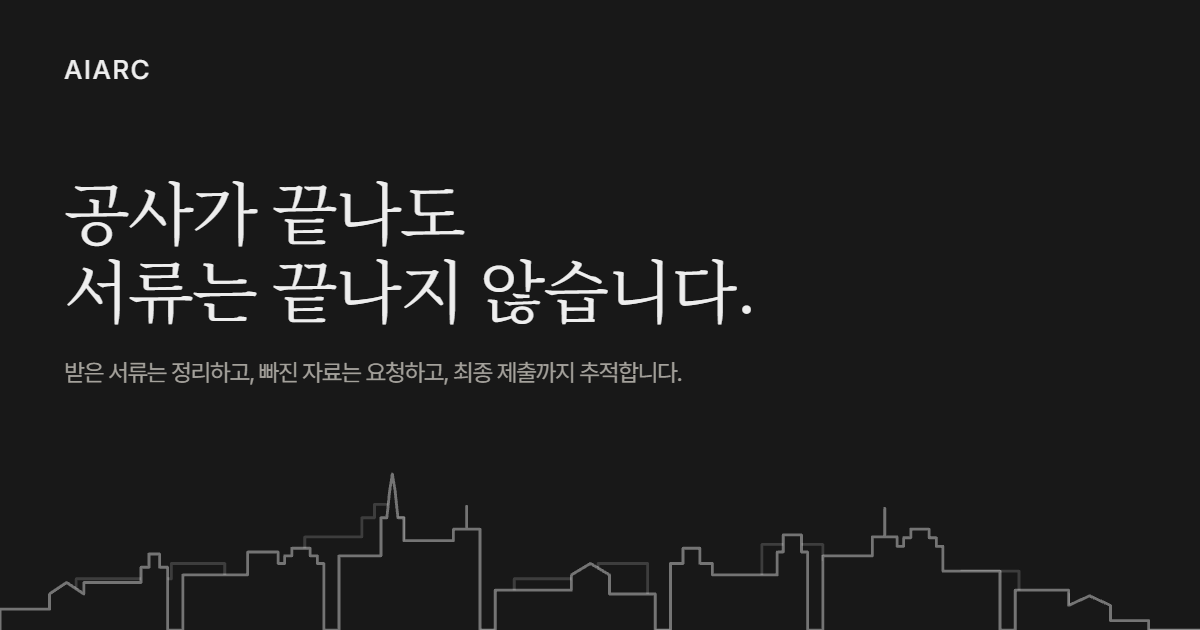
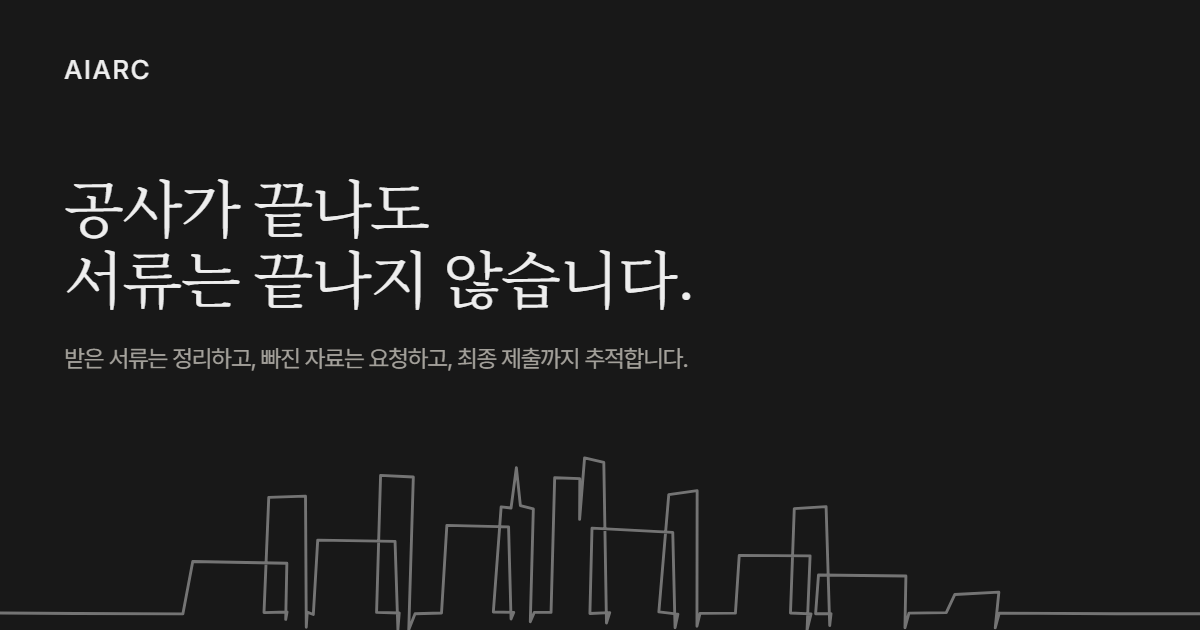
feat: redraw the skyline as a continuous one-line drawing
Replaces the architectural elevation with the single-stroke style from the
reference. Different enough that the generator was rewritten rather than
tuned: that version lifted the pen between blocks and was checked for
monotonic x, which this style has to violate.

  - one unbroken stroke, no fill, no second depth plane
  - buildings overlap in x, so the line runs through earlier roofs and
    descenders. That is where the crossings come from
  - each building's right edge stabs below the ground line before the pen
    returns to it
  - a seeded wobble leans the verticals slightly, so it reads as drawn
    rather than plotted; the seed keeps the committed path stable

The self-intersection check earned its place. It started as a count of
backtracks in x, which passed while the drawing had zero real crossings --
the descenders made a V that touched the ground line without ever crossing
it. Counting proper segment intersections showed 0 and forced the overlap
fix that the style actually needs.

Hero headline down another step to 58 / 48 / 38, and the card headline with
it. The card's skyline also sits 17px higher so its descenders are not
cropped by the bottom edge.

diff --git a/tools/skyline.js b/tools/skyline.js
@@ -1,173 +1,145 @@
-// Generates the hero skyline path(s).
+// Generates the hero skyline: a continuous one-line drawing.
 //
-// Same viewBox / baseline / y-range as Altitude's mountain ridge (0 0 630 360, base
-// y=177, apex y=95) so the graphic lands in the identical screen position at every
-// width. Straight segments only: the ridge's C-curves become elevation lines.
+// Same viewBox / baseline / y-band as Altitude's mountain ridge (0 0 630 360, base
+// y=177, apex y~95) so the graphic keeps its screen position at every width.
 //
-// Two things drive the composition:
+// The earlier version was a clean architectural elevation, drawn strictly left to
+// right with the pen lifting between blocks. This is the opposite: ONE stroke that
+// never lifts. Each building is traced up the left edge, across the roof, then down
+// past the ground line before coming back up to continue, so the line crosses
+// itself at every building. Those crossings, plus a small seeded wobble, are what
+// make it read as drawn by hand rather than plotted.
 //
-// 1. Real skylines are power-law, not a comb. Seoul is one 555m tower against a
-//    245-333m cluster and a long low-rise tail. Mapping that ratio onto the ridge
-//    band (82 units) gives one dominant tower, two secondaries, a mid group, and a
-//    lot of low mass -- the height hierarchy the first version was missing.
-// 2. Width has to vary as much as height. Narrow spires next to wide slabs are what
-//    stop it reading as a row of same-size boxes.
-//
-// Roof heights are fitted to the ridge's own y-values across x (177 at both edges,
-// ~148 by x=60, peak near x=180, dip near x=290, secondary rise near x=470), so the
-// skyline reads as the same silhouette rebuilt out of buildings.
-//
-// The ridge never returns to a baseline mid-span, so neither does this: buildings
-// share party walls inside a block, and only a few streets drop to the ground.
+// Two consequences of the style, both deliberate:
+//   - x is NOT monotonic any more. The pen doubles back; that is the whole point.
+//   - there is no fill and no second depth plane. A one-line drawing is just a line.
 
 const BASE = 177;
 const APEX = 95;
+const OVERSHOOT_MAX = 12; // how far below the ground line a descender may stab
+
+// deterministic wobble, so the committed path is stable across runs
+let seed = 20260905;
+function rnd() {
+  seed = (seed * 1664525 + 1013904223) % 4294967296;
+  return seed / 4294967296;
+}
+const jit = (a) => (rnd() - 0.5) * 2 * a;
+
 const r = (n) => Math.round(n * 10) / 10;
+const pts = [];
+const to = (x, y) => pts.push([x, y]);
 
-function buildPath(blocks) {
-  const p = [];
-  const to = (x, y) => p.push(`L ${r(x)},${r(y)}`);
+// --- composition -------------------------------------------------------------
+// Follows the reference: long flat ground on the left, a rising mid-rise group,
+// the tall cluster a little past centre with a spire, then a descending tail and
+// flat ground again on the right.
+//
+// [x, width, roofY, kind]
+//   block - plain building
+//   spire - carries a thin mast
+//   twin  - two narrow towers in one gesture, dipping between without reaching ground
+const plan = [
+  [100, 50, 150, 'block'],
+  [142, 18, 116, 'block'],
+  [168, 40, 138, 'block'],
+  [200, 16, 105, 'block'],
+  [236, 32, 131, 'block'],
+  [262, 18, 121, 'spire'],
+  [292, 26, 106, 'twin'],
+  [312, 42, 134, 'block'],
+  [350, 15, 114, 'block'],
+  [388, 36, 146, 'block'],
+  [418, 16, 122, 'block'],
+  [430, 46, 156, 'block'],
+  [500, 24, 167, 'block'],
+];
 
-  // Pen enters at (x, y) on the left of the roof, leaves at (x + w, y).
-  const roofs = {
-    flat: (x, w, y) => to(x + w, y),
+to(0, BASE + jit(0.6));
+to(40, BASE + jit(0.8));
 
-    // thin mast on a flat roof
-    mast: (x, w, y, h = 16) => {
-      const c = x + w * 0.5;
-      to(c, y); to(c, y - h); to(c, y); to(x + w, y);
-    },
+for (const [x, w, top, kind] of plan) {
+  to(x - 3 + jit(1.2), BASE + jit(0.8));        // approach along the ground
+  to(x + jit(1.4), top + jit(1.6));             // up the left edge, slightly off-vertical
 
-    // pitched roof, low-rise only
-    gable: (x, w, y, rise = 7) => {
-      to(x + w * 0.5, y - rise); to(x + w, y);
-    },
-
-    // raised parapet
-    crown: (x, w, y, h = 9) => {
-      to(x + w * 0.3, y); to(x + w * 0.3, y - h); to(x + w * 0.7, y - h);
-      to(x + w * 0.7, y); to(x + w, y);
-    },
-
-    // art-deco setback
-    setback: (x, w, y, d = 12) => {
-      to(x + w * 0.2, y); to(x + w * 0.2, y - d); to(x + w * 0.8, y - d);
-      to(x + w * 0.8, y); to(x + w, y);
-    },
-
-    // tapered shaft rising to a spire — the dominant tower's crown
-    taper: (x, w, y, h = 26) => {
-      const c = x + w * 0.5;
-      to(x + w * 0.26, y); to(x + w * 0.38, y - h * 0.62);
-      to(c, y - h); to(x + w * 0.62, y - h * 0.62);
-      to(x + w * 0.74, y); to(x + w, y);
-    },
-
-    // stepped crown, two shoulders
-    stepped: (x, w, y, d = 10) => {
-      to(x + w * 0.14, y); to(x + w * 0.14, y - d * 0.5);
-      to(x + w * 0.3, y - d * 0.5); to(x + w * 0.3, y - d);
-      to(x + w * 0.7, y - d); to(x + w * 0.7, y - d * 0.5);
-      to(x + w * 0.86, y - d * 0.5); to(x + w * 0.86, y); to(x + w, y);
-    },
-  };
-
-  p.push(`M 0,${BASE}`);
-  let cursor = 0;
-  for (const block of blocks) {
-    if (block.x > cursor) to(block.x, BASE); // street
-    let x = block.x;
-    for (const [w, y, kind, arg] of block.buildings) {
-      to(x, y);                              // party wall
-      roofs[kind](x, w, y, arg);
-      x += w;
-    }
-    to(x, BASE);
-    cursor = x;
+  if (kind === 'twin') {
+    const mid = x + w * 0.45;
+    to(mid + jit(1.2), top + jit(1.5));
+    to(mid + jit(1.4), top + 22 + jit(2));      // dip between the towers
+    to(mid + 3 + jit(1.2), top - 9 + jit(2));   // back up, taller
+    to(x + w + jit(1.4), top - 7 + jit(1.8));
+  } else if (kind === 'spire') {
+    const c = x + w * 0.5;
+    to(c - 2 + jit(0.8), top + jit(1.2));
+    to(c + jit(0.7), top - 21 + jit(1.5));      // the mast
+    to(c + 2 + jit(0.8), top + jit(1.2));
+    to(x + w + jit(1.4), top + jit(1.6));
+  } else {
+    to(x + w + jit(1.4), top + jit(1.6));       // across the roof
   }
-  to(630, BASE);
-  return p.filter((seg, i) => seg !== p[i - 1]).join(' ');
+
+  // down the right edge and PAST the ground, then back up: this is the crossing
+  to(x + w + jit(1.6), BASE + 3 + rnd() * 6);
+  to(x + w + 2 + jit(1.5), BASE + jit(0.7));
 }
 
-// --- foreground ---------------------------------------------------------------
-// Macro silhouette echoes the ridge: low left shoulder, dominant tower near x=180,
-// a dip around x=300, a secondary rise near x=470, tapering right.
-const front = [
-  { x: 0,   buildings: [[26, 166, 'flat'], [18, 158, 'gable', 6], [30, 152, 'flat'], [14, 144, 'crown', 7]] },
-  { x: 96,  buildings: [[34, 148, 'flat'], [16, 136, 'flat'], [24, 142, 'stepped', 8]] },
-  { x: 178, buildings: [[22, 138, 'flat'], [12, 118, 'taper', 23], [26, 130, 'flat'], [14, 124, 'mast', 12]] },
-  { x: 260, buildings: [[40, 156, 'flat'], [20, 148, 'gable', 6], [24, 158, 'flat']] },
-  { x: 352, buildings: [[22, 142, 'crown', 8], [34, 148, 'flat'], [16, 136, 'setback', 9]] },
-  { x: 432, buildings: [[26, 138, 'flat'], [13, 128, 'mast', 15], [24, 133, 'stepped', 9], [30, 146, 'flat']] },
-  { x: 533, buildings: [[28, 156, 'flat'], [22, 164, 'gable', 5], [20, 172, 'flat']] },
-];
+to(586, BASE + jit(0.8));
+to(630, BASE + jit(0.6));
 
-// --- background ---------------------------------------------------------------
-// A second, much fainter plane. Sparse and simple on purpose: it reads as depth,
-// not as more detail. Sits behind and slightly higher so it peeks between the
-// front masses rather than competing with them.
-const back = [
-  { x: 40,  buildings: [[50, 150, 'flat'], [28, 142, 'flat']] },
-  { x: 160, buildings: [[30, 128, 'flat'], [22, 118, 'crown', 7]] },
-  { x: 270, buildings: [[44, 150, 'flat'], [26, 142, 'flat']] },
-  { x: 400, buildings: [[32, 132, 'flat'], [38, 140, 'flat']] },
-  { x: 505, buildings: [[30, 146, 'flat'], [26, 158, 'flat']] },
-];
-
-const paths = { front: buildPath(front), back: buildPath(back) };
+const d = 'M ' + pts.map(([x, y]) => `${r(x)},${r(y)}`).join(' L ');
 
 // --- checks -------------------------------------------------------------------
 if (process.argv[2] === '--check') {
   let bad = 0;
   const report = (pass, msg) => { console.log((pass ? 'ok   ' : 'FAIL ') + msg); if (!pass) bad++; };
 
-  for (const [name, d] of Object.entries(paths)) {
-    const pts = [...d.matchAll(/[ML] (-?[\d.]+),(-?[\d.]+)/g)].map((m) => [+m[1], +m[2]]);
-    const xs = pts.map((q) => q[0]);
-    const ys = pts.map((q) => q[1]);
-    // drawn left-to-right, so x must never double back or the stroke overdraws itself
-    const backtrack = xs.findIndex((x, i) => i && x < xs[i - 1] - 1e-9);
-    const top = Math.min(...ys);
-    report(top >= APEX - 1 && top <= (name === 'front' ? 100 : 130),
-      `${name}: apex ${top} inside its band`);
-    report(Math.max(...ys) === BASE, `${name}: baseline ${Math.max(...ys)} === ${BASE}`);
-    report(xs[0] === 0 && xs[xs.length - 1] === 630, `${name}: spans 0..630`);
-    report(backtrack === -1, `${name}: x monotonic (first backtrack ${backtrack})`);
-    report(!/NaN|undefined/.test(d), `${name}: no NaN`);
-  }
+  const xs = pts.map((p) => p[0]);
+  const ys = pts.map((p) => p[1]);
+  const top = Math.min(...ys);
+  const bottom = Math.max(...ys);
 
-  // the front plane must actually have hierarchy, not be a comb: the tallest
-  // building should stand well clear of the median roof height
-  const roofs = front.flatMap((b) => b.buildings.map(([, y]) => y)).sort((a, b) => a - b);
-  const tallest = roofs[0];
-  const median = roofs[Math.floor(roofs.length / 2)];
-  report(median - tallest >= 25, `front: hierarchy, median roof ${median} vs tallest ${tallest}`);
+  report((d.match(/M/g) || []).length === 1, 'a single unbroken stroke (one M command)');
+  report(top >= APEX - 4 && top <= 100, `apex ${r(top)} inside the ridge band`);
+  report(bottom <= BASE + OVERSHOOT_MAX, `deepest descender ${r(bottom)} <= ${BASE + OVERSHOOT_MAX}`);
+  report(xs[0] === 0 && xs[xs.length - 1] === 630, 'spans the full 0..630 viewBox');
+  report(Math.abs(ys[0] - BASE) < 2 && Math.abs(ys[ys.length - 1] - BASE) < 2,
+    'both ends sit on the ground line');
 
-  const widths = front.flatMap((b) => b.buildings.map(([w]) => w));
-  report(Math.max(...widths) / Math.min(...widths) >= 3,
-    `front: width variance ${Math.min(...widths)}..${Math.max(...widths)} (>=3x)`);
+  // The defining property of this style is that the stroke crosses ITSELF. Counting
+  // backtracks in x was only a proxy and stopped tracking once the gaps widened, so
+  // measure the real thing: proper intersections between non-adjacent segments.
+  const seg = pts.slice(0, -1).map((p, i) => [p, pts[i + 1]]);
+  const cross = (a, b, c, dd) => {
+    const o = (p, q, s) => Math.sign((q[0] - p[0]) * (s[1] - p[1]) - (q[1] - p[1]) * (s[0] - p[0]));
+    return o(a, b, c) !== o(a, b, dd) && o(c, dd, a) !== o(c, dd, b);
+  };
+  let hits = 0;
+  for (let i = 0; i < seg.length; i++)
+    for (let j = i + 2; j < seg.length; j++)
+      if (cross(seg[i][0], seg[i][1], seg[j][0], seg[j][1])) hits++;
+  report(hits >= plan.length, `${hits} self-intersections (>= ${plan.length}, one per building)`);
 
+  const dips = ys.filter((y) => y > BASE + 3).length;
+  report(dips >= plan.length, `${dips} descenders cross the ground line`);
+
+  report(!/NaN|undefined/.test(d), 'no NaN in path');
   process.exit(bad ? 1 : 0);
 }
 
 if (process.argv[2] === '--sync') {
   const fs = require('fs');
   const path = require('path');
-  // the social card reuses the same silhouette, so it is synced from here too
   const targets = ['index.html', path.join('tools', 'og-card.html')];
   for (const rel of targets) {
     const file = path.join(__dirname, '..', rel);
     if (!fs.existsSync(file)) continue;
-    let html = fs.readFileSync(file, 'utf8');
-    for (const [name, d] of Object.entries(paths)) {
-      const re = new RegExp(`(<path id="skyline-${name}" d=")[^"]*(")`);
-      if (!re.test(html)) { console.error(`skyline-${name} not found in ${rel}`); process.exit(1); }
-      html = html.replace(re, (m, a, b) => a + d + b);
-    }
-    fs.writeFileSync(file, html);
+    const html = fs.readFileSync(file, 'utf8');
+    const re = /(<path id="skyline-line" d=")[^"]*(")/;
+    if (!re.test(html)) { console.error(`skyline-line not found in ${rel}`); process.exit(1); }
+    fs.writeFileSync(file, html.replace(re, (m, a, b) => a + d + b));
     console.log(`synced ${rel}`);
   }
   process.exit(0);
 }
 
-console.log(JSON.stringify(paths, null, 1));
+console.log(d);

diff --git a/index.html b/index.html
@@ -199,7 +199,7 @@ main{padding-top:var(--header-h)}
 
 .hero h1{
   font-family:var(--font-serif);font-weight:400;
-  font-size:42px;line-height:1.15;letter-spacing:-.025em;
+  font-size:38px;line-height:1.15;letter-spacing:-.025em;
   color:var(--foreground);
   /* Korean has no inter-syllable break opportunity worth taking — without this the
      browser splits 않습니다 across lines at narrow widths */
@@ -219,9 +219,6 @@ main{padding-top:var(--header-h)}
 .skyline{position:absolute;top:30%;left:0;right:0;width:100%;pointer-events:none}
 .skyline-clip{width:100%;overflow:hidden}
 .skyline svg{display:block;width:100%;min-width:900px;height:auto}
-/* filled with the canvas colour so the front plane hides the depth layer
-   behind it; visually still pure linework, no visible fill */
-#skyline-front{fill:var(--background)}
 
 /* ── motion ───────────────────────────────────────────────────────────────── */
 @keyframes reveal{to{opacity:1;transform:translateY(0)}}
@@ -284,8 +281,8 @@ main{padding-top:var(--header-h)}
 }
 
 /* ── type scale: Altitude's text-5xl / sm:text-6xl / lg:text-7xl ──────────── */
-@media (min-width:640px){.hero h1{font-size:54px}}
-@media (min-width:1024px){.hero h1{font-size:64px}}
+@media (min-width:640px){.hero h1{font-size:48px}}
+@media (min-width:1024px){.hero h1{font-size:58px}}
 </style>
 </head>
 <body>
@@ -343,8 +340,7 @@ main{padding-top:var(--header-h)}
       <div class="skyline-clip">
         <!-- purely decorative: announcing it adds nothing for screen readers -->
         <svg xmlns="http://www.w3.org/2000/svg" viewBox="0 0 630 360" preserveAspectRatio="none" aria-hidden="true" focusable="false">
-          <path id="skyline-back" d="M 0,177 L 40,177 L 40,150 L 90,150 L 90,142 L 118,142 L 118,177 L 160,177 L 160,128 L 190,128 L 190,118 L 196.6,118 L 196.6,111 L 205.4,111 L 205.4,118 L 212,118 L 212,177 L 270,177 L 270,150 L 314,150 L 314,142 L 340,142 L 340,177 L 400,177 L 400,132 L 432,132 L 432,140 L 470,140 L 470,177 L 505,177 L 505,146 L 535,146 L 535,158 L 561,158 L 561,177 L 630,177" fill="none" stroke="white" stroke-width="1.5" stroke-linecap="round" stroke-linejoin="round" opacity="0.16"/>
-          <path id="skyline-front" d="M 0,177 L 0,166 L 26,166 L 26,158 L 35,152 L 44,158 L 44,152 L 74,152 L 74,144 L 78.2,144 L 78.2,137 L 83.8,137 L 83.8,144 L 88,144 L 88,177 L 96,177 L 96,148 L 130,148 L 130,136 L 146,136 L 146,142 L 149.4,142 L 149.4,138 L 153.2,138 L 153.2,134 L 162.8,134 L 162.8,138 L 166.6,138 L 166.6,142 L 170,142 L 170,177 L 178,177 L 178,138 L 200,138 L 200,118 L 203.1,118 L 204.6,103.7 L 206,95 L 207.4,103.7 L 208.9,118 L 212,118 L 212,130 L 238,130 L 238,124 L 245,124 L 245,112 L 245,124 L 252,124 L 252,177 L 260,177 L 260,156 L 300,156 L 300,148 L 310,142 L 320,148 L 320,158 L 344,158 L 344,177 L 352,177 L 352,142 L 358.6,142 L 358.6,134 L 367.4,134 L 367.4,142 L 374,142 L 374,148 L 408,148 L 408,136 L 411.2,136 L 411.2,127 L 420.8,127 L 420.8,136 L 424,136 L 424,177 L 432,177 L 432,138 L 458,138 L 458,128 L 464.5,128 L 464.5,113 L 464.5,128 L 471,128 L 471,133 L 474.4,133 L 474.4,128.5 L 478.2,128.5 L 478.2,124 L 487.8,124 L 487.8,128.5 L 491.6,128.5 L 491.6,133 L 495,133 L 495,146 L 525,146 L 525,177 L 533,177 L 533,156 L 561,156 L 561,164 L 572,159 L 583,164 L 583,172 L 603,172 L 603,177 L 630,177" stroke="white" stroke-width="1.5" stroke-linecap="round" stroke-linejoin="round" fill-opacity="1" stroke-opacity="0.4"/>
+          <path id="skyline-line" d="M 0,176.9 L 40,177.2 L 96,177.4 L 101.2,149.9 L 150.6,150.8 L 150,180.3 L 150.7,176.4 L 138.6,176.7 L 141.1,116.2 L 160.4,115.6 L 160.8,184.4 L 161.3,176.5 L 164.5,177.7 L 166.8,138.7 L 207.4,139.3 L 208.9,185.7 L 209.6,176.9 L 197.7,176.6 L 199.8,104.7 L 217,105.5 L 214.6,185.7 L 217.9,177.3 L 231.8,176.9 L 234.6,130.9 L 267,131.7 L 268.3,180.1 L 269.7,176.6 L 259,176.4 L 263.1,121.2 L 268.3,121.8 L 271.1,100.6 L 273.2,120.6 L 280,122.3 L 278.4,181.5 L 280.5,176.6 L 289.3,176.6 L 291.2,105.9 L 304.4,106.4 L 304.3,127.8 L 306.9,95.5 L 317,97.9 L 318.4,182.2 L 320.1,176.7 L 309.7,177.2 L 310.8,132.4 L 353.2,134.6 L 354.4,184.7 L 355.9,177.5 L 345.9,176.3 L 351.1,114.8 L 366,112.7 L 365.9,183.9 L 367.5,177.1 L 386.1,177 L 388.1,146.7 L 425.3,146.9 L 423.7,185.9 L 425.8,177.4 L 415,176.9 L 417,122.1 L 433.7,121.1 L 435.6,183.5 L 436.3,177.3 L 428.2,177.3 L 429.7,157 L 475.6,157.5 L 475.1,184.7 L 477.2,177 L 496.8,176.7 L 501.3,167.2 L 524.4,166 L 522.5,184.7 L 524.6,177 L 586,177.3 L 630,177.3" fill="none" stroke="white" stroke-width="1.5" stroke-linecap="round" stroke-linejoin="round" opacity="0.4"/>
         </svg>
       </div>
     </div>

diff --git a/tools/og-card.html b/tools/og-card.html
@@ -27,7 +27,7 @@ body{
 }
 h1{
   margin:0;font-family:'Libre Baskerville','Noto Serif KR',serif;font-weight:400;
-  font-size:68px;line-height:1.15;letter-spacing:-.025em;word-break:keep-all;
+  font-size:62px;line-height:1.15;letter-spacing:-.025em;word-break:keep-all;
 }
 h1 .line{display:block}
 p{
@@ -35,11 +35,10 @@ p{
   font-size:23px;line-height:1.6;color:#a4a19b;word-break:keep-all;
 }
 /* The svg is 1200 * 360/630 = 685.7px tall and its baseline sits at y=177 of the
-   360 viewBox, i.e. 337.1px down. Top = 630 - 337.1 puts that baseline flush with
-   the bottom edge, so the buildings occupy the lower band instead of the headline. */
-.skyline{position:absolute;left:0;right:0;top:293px;width:100%}
+   360 viewBox, i.e. 337.1px down. 276 puts that ground line at y=613, leaving room
+   for the descenders that stab below it instead of cropping them at the edge. */
+.skyline{position:absolute;left:0;right:0;top:276px;width:100%}
 .skyline svg{display:block;width:100%;height:auto}
-#skyline-front{fill:#181818}
 </style>
 </head>
 <body>
@@ -52,8 +51,7 @@ p{
 
   <div class="skyline">
     <svg xmlns="http://www.w3.org/2000/svg" viewBox="0 0 630 360" preserveAspectRatio="none" aria-hidden="true">
-      <path id="skyline-back" d="M 0,177 L 40,177 L 40,150 L 90,150 L 90,142 L 118,142 L 118,177 L 160,177 L 160,128 L 190,128 L 190,118 L 196.6,118 L 196.6,111 L 205.4,111 L 205.4,118 L 212,118 L 212,177 L 270,177 L 270,150 L 314,150 L 314,142 L 340,142 L 340,177 L 400,177 L 400,132 L 432,132 L 432,140 L 470,140 L 470,177 L 505,177 L 505,146 L 535,146 L 535,158 L 561,158 L 561,177 L 630,177" fill="none" stroke="white" stroke-width="1.5" stroke-linecap="round" stroke-linejoin="round" opacity="0.16"/>
-      <path id="skyline-front" d="M 0,177 L 0,166 L 26,166 L 26,158 L 35,152 L 44,158 L 44,152 L 74,152 L 74,144 L 78.2,144 L 78.2,137 L 83.8,137 L 83.8,144 L 88,144 L 88,177 L 96,177 L 96,148 L 130,148 L 130,136 L 146,136 L 146,142 L 149.4,142 L 149.4,138 L 153.2,138 L 153.2,134 L 162.8,134 L 162.8,138 L 166.6,138 L 166.6,142 L 170,142 L 170,177 L 178,177 L 178,138 L 200,138 L 200,118 L 203.1,118 L 204.6,103.7 L 206,95 L 207.4,103.7 L 208.9,118 L 212,118 L 212,130 L 238,130 L 238,124 L 245,124 L 245,112 L 245,124 L 252,124 L 252,177 L 260,177 L 260,156 L 300,156 L 300,148 L 310,142 L 320,148 L 320,158 L 344,158 L 344,177 L 352,177 L 352,142 L 358.6,142 L 358.6,134 L 367.4,134 L 367.4,142 L 374,142 L 374,148 L 408,148 L 408,136 L 411.2,136 L 411.2,127 L 420.8,127 L 420.8,136 L 424,136 L 424,177 L 432,177 L 432,138 L 458,138 L 458,128 L 464.5,128 L 464.5,113 L 464.5,128 L 471,128 L 471,133 L 474.4,133 L 474.4,128.5 L 478.2,128.5 L 478.2,124 L 487.8,124 L 487.8,128.5 L 491.6,128.5 L 491.6,133 L 495,133 L 495,146 L 525,146 L 525,177 L 533,177 L 533,156 L 561,156 L 561,164 L 572,159 L 583,164 L 583,172 L 603,172 L 603,177 L 630,177" stroke="white" stroke-width="1.5" stroke-linecap="round" stroke-linejoin="round" fill-opacity="1" stroke-opacity="0.4"/>
+      <path id="skyline-line" d="M 0,176.9 L 40,177.2 L 96,177.4 L 101.2,149.9 L 150.6,150.8 L 150,180.3 L 150.7,176.4 L 138.6,176.7 L 141.1,116.2 L 160.4,115.6 L 160.8,184.4 L 161.3,176.5 L 164.5,177.7 L 166.8,138.7 L 207.4,139.3 L 208.9,185.7 L 209.6,176.9 L 197.7,176.6 L 199.8,104.7 L 217,105.5 L 214.6,185.7 L 217.9,177.3 L 231.8,176.9 L 234.6,130.9 L 267,131.7 L 268.3,180.1 L 269.7,176.6 L 259,176.4 L 263.1,121.2 L 268.3,121.8 L 271.1,100.6 L 273.2,120.6 L 280,122.3 L 278.4,181.5 L 280.5,176.6 L 289.3,176.6 L 291.2,105.9 L 304.4,106.4 L 304.3,127.8 L 306.9,95.5 L 317,97.9 L 318.4,182.2 L 320.1,176.7 L 309.7,177.2 L 310.8,132.4 L 353.2,134.6 L 354.4,184.7 L 355.9,177.5 L 345.9,176.3 L 351.1,114.8 L 366,112.7 L 365.9,183.9 L 367.5,177.1 L 386.1,177 L 388.1,146.7 L 425.3,146.9 L 423.7,185.9 L 425.8,177.4 L 415,176.9 L 417,122.1 L 433.7,121.1 L 435.6,183.5 L 436.3,177.3 L 428.2,177.3 L 429.7,157 L 475.6,157.5 L 475.1,184.7 L 477.2,177 L 496.8,176.7 L 501.3,167.2 L 524.4,166 L 522.5,184.7 L 524.6,177 L 586,177.3 L 630,177.3" fill="none" stroke="white" stroke-width="1.5" stroke-linecap="round" stroke-linejoin="round" opacity="0.4"/>
     </svg>
   </div>
 </body>
